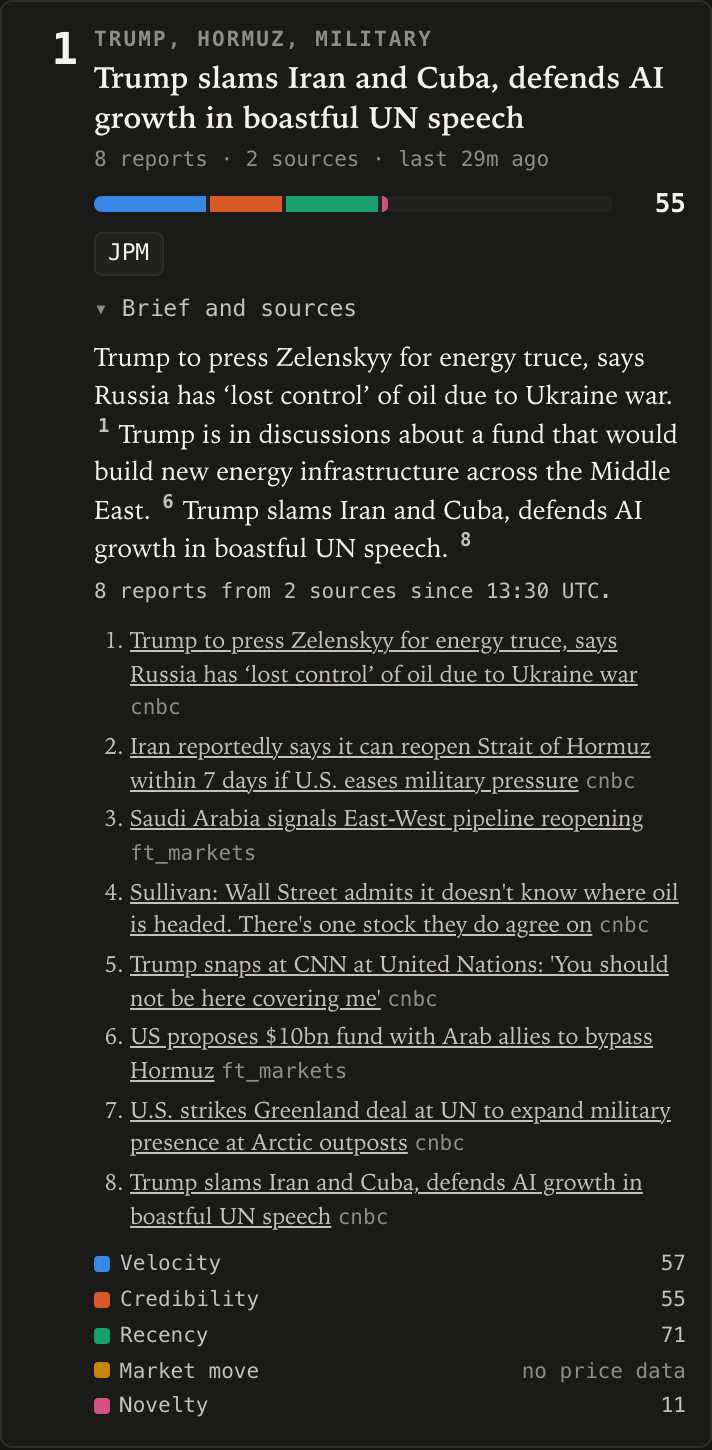
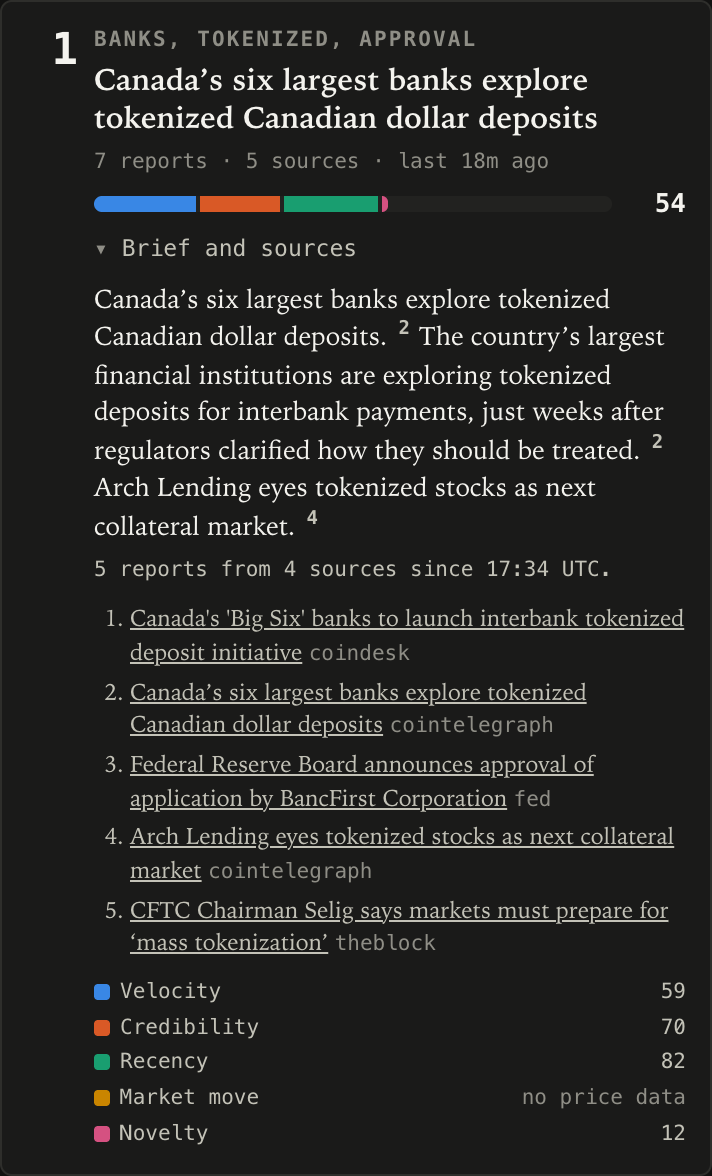
readme, verification and offline-run script updates

diff --git a/README.md b/README.md
@@ -1,35 +1,65 @@
 # Summerand
 
-Market news clustering, impact ranking and briefs, streamed to a Chrome side panel.
+Summerand groups market news, ranks clusters with an impact heuristic, and sends cited briefs to a Chrome side panel.
 
-Summerand polls financial and crypto news feeds and live market data, groups related articles
-with embeddings and K-Means, scores each group for likely market impact, and writes short cited
-briefs. A FastAPI server pushes the ranking over a WebSocket to a Chrome side panel, which also
-highlights tickers on the page you're reading.
+It groups financial and crypto news, scores each group using hand-set weights, and writes short
+briefs with citations. FastAPI sends rankings over a WebSocket to the panel, which also marks
+tickers on the page you're reading. The demo replays recorded stories and prices. The panel can
+show a connected server while the market data is historical. In live mode, Summerand polls news
+feeds and market data, with the limits described below.
 
 <img src="docs/sidepanel.png" width="380" alt="Side panel showing the market brief and ranked story cards with score bars">
 
+_Selected fixture moment (2026-08-28 22:00 UTC) in the Chrome side panel. The market brief
+extracts sentences from several unrelated top stories. Clusters are illustrative; some sources
+still cross topics within a cluster._
+
 ## Run the recorded demo
 
-`make setup` installs the locked Python dependencies and pinned local embedding model; it needs network access. After setup, replay the included 24-hour fixture without API keys:
+From a clean clone, install [uv](https://docs.astral.sh/uv/getting-started/installation/)
+and Python 3.11 or newer. These commands download the locked core Python dependencies. You do
+not need an account, API key, model download, Docker, or Node:
+
+```sh
+make setup-demo
+make demo-hashing
+```
+
+The API serves at `http://127.0.0.1:8000`. When the terminal says `replay done`, open
+`/api/stories` at that address to see the ranked fixture stories. Each run replaces the
+disposable `var/demo-hashing.sqlite` file and its SQLite sidecars, then serves the final state
+until you press Ctrl-C. The 24-hour fixture uses hashing vectors on this path, so its clusters
+may differ from a MiniLM run.
+
+To view the side panel, use Chrome 116 or newer: open `chrome://extensions`, enable Developer
+mode, choose **Load unpacked**, and select this repository's `extension` directory. Click the
+Summerand toolbar icon to open the panel; its **Connected** indicator means the local server is
+reachable, not that market data is live. The panel defaults to `127.0.0.1:8000`; change it on
+the extension options page if you chose another port. Node is needed only for the extension
+unit tests (`make ext-test`).
+
+For the recorded MiniLM setup used by the checked-in ranking evaluation, run `make setup`.
+This downloads the pinned model and Playwright Chromium, then installs the locked Python
+dependencies. After that, replay with:
 
 ```sh
 SUMMERAND_EMBEDDER=local SUMMERAND_LLM=off make demo-fast
 ```
 
-The API serves at `http://127.0.0.1:8000`. To view the side panel, open `chrome://extensions`, enable Developer mode, choose **Load unpacked**, and select this repository's `extension` directory. The demo command replays into a local SQLite database and serves the final state until stopped. `make ext-test` runs the extension's Node tests; `make test-fast` runs the Python tests.
+`make test-fast` runs the Python tests. `make ext-test` runs the extension's Node tests.
 
 `make demo` replays at 300x instead (24 hours of news in about five minutes), so you can watch
 clusters form and rankings change in the panel. Speed only changes how long the replay sleeps
-between events; the pipeline's results are the same at any speed. `--until 2026-08-28T19:30:00Z`
-stops the replay at a chosen moment (the screenshot above is from then). Without `make setup`'s model
-download the demo falls back to hashed bag-of-words vectors, which cluster less well but need
-nothing.
+between events; the pipeline's results are the same at any speed. `--until 2026-08-28T22:00:00Z`
+stops the replay at a chosen moment (used for the screenshot above). The default embedder
+can fall back to hashing if no local model is available; `demo-hashing` selects hashing explicitly.
 
-Nothing in the demo needs the network after setup. `make e2e-offline`, run under a wrapper that
-blocks outbound connections, runs the demo, the tests and the extension smoke test with every
-process checking at startup that it cannot reach the internet (see
-[docs/verification.md](docs/verification.md)).
+Nothing in the replay needs the network after setup. On macOS, run
+`scripts/offline-run make e2e-offline` after `make setup` and with Node installed. The included
+wrapper denies outbound connections except localhost, unsets provider keys used by Summerand,
+and makes the demo, tests and Chromium extension smoke check verify that egress is blocked at
+startup. The wrapper uses macOS `sandbox-exec`; see [docs/verification.md](docs/verification.md)
+for the historical run and the distinction between replay and live-feed validation.
 
 ## How it works
 
@@ -131,12 +161,12 @@ make compose-offline       # the same replay on an internal-only network, checke
 ```
 
 The API binds to 127.0.0.1 unless given `--host` (compose passes 0.0.0.0 inside the network).
-Set `SUMMERAND_EXTENSION_IDS` to pin which extension ids may connect; by default any unpacked
-extension id and localhost pages are allowed. Redpanda listens on `redpanda:9092` for containers and `localhost:19092` for the host. Postgres
-is published on `127.0.0.1:5433` (`SUMMERAND_PG_PORT`), and the API on `SUMMERAND_API_PORT`
-(default 8000). Keys go in `.env` (see `.env.example`); all of them are optional. To use MiniLM
-inside the containers, build with `SUMMERAND_EXTRAS="--extra pg --extra local"` (this adds
-torch) after `make models`.
+Set `SUMMERAND_EXTENSION_IDS` to restrict which extension ids may connect; by default, any
+unpacked extension id and localhost pages are allowed. Redpanda listens on `redpanda:9092` for
+containers and `localhost:19092` for the host. Postgres is published on `127.0.0.1:5433`
+(`SUMMERAND_PG_PORT`), and the API on `SUMMERAND_API_PORT` (default 8000). Keys go in `.env`
+(see `.env.example`); all of them are optional. To use MiniLM inside the containers, run
+`make models`, then build with `SUMMERAND_EXTRAS="--extra pg --extra local"` (which adds torch).
 
 The pipeline doesn't commit offsets. On restart it rebuilds its window from the retained topics
 (news kept 26h, ticks 7h). While it is catching up it doesn't call the LLM or push to clients.
@@ -181,9 +211,22 @@ by the tests.
 
 ## Ranking evaluation
 
-`make eval` replays the same fixture and compares the pipeline's impact order with recency, cluster size, and 200 seeded random shuffles. A story is labeled positive when a ticker's absolute 60-minute log return exceeds twice its trailing 120-minute realized one-minute volatility scaled by `sqrt(60)`. Only stories with sufficient price history and a future price enter the evaluation. The result is in [`results/ranking_eval.json`](results/ranking_eval.json); the script and fixture hashes in that file identify the evaluated inputs.
+`make eval` replays the fixture with the local MiniLM model and compares the impact order with
+recency, cluster size, and 200 seeded random shuffles. A story is positive when a ticker's
+absolute 60-minute log return exceeds twice its trailing 120-minute realized one-minute
+volatility scaled by `sqrt(60)`. A story needs enough price history and a future price to enter
+the evaluation. The current local recompute is in
+[`results/ranking_eval.json`](results/ranking_eval.json). Its fixture and evaluation-script
+SHA-256 values match this tree. Reproducing its numbers requires `make setup` and the same local
+model; the hashing quickstart uses a different embedding configuration.
 
-This fixture **does not establish a ranking improvement**. Only 7 of 133 snapshots with priced candidates have a positive story, and those 7 contain 1, 1, 1, 1, 5, 3, and 1 candidates. Precision at five therefore cannot vary with order in any evaluated snapshot. NDCG at ten can vary in only two. The positive snapshots are also drawn from one replay and are not independent market events. The scores are descriptive diagnostics, not evidence that impact ranking predicts price moves or beats the baselines. A useful next evaluation needs more independent positive events and multiple candidates per snapshot, with the labeling rule and comparison fixed before inspecting results.
+This fixture **does not establish a ranking improvement**. Only 7 of 133 snapshots with priced
+candidates have a positive story. Those 7 have 1, 1, 1, 1, 5, 3, and 1 candidates. Precision at
+five cannot vary with order in any evaluated snapshot, and NDCG at ten can vary in only two.
+These positive snapshots come from one replay, so they are not independent market events. The
+scores describe this run; they do not show that impact ranking predicts price moves or beats the
+baselines. A useful next evaluation needs more independent positive events and multiple
+candidates per snapshot, with the labeling rule and comparison fixed before seeing results.
 
 ## Limitations
 

diff --git a/docs/verification.md b/docs/verification.md
@@ -1,9 +1,10 @@
 # Verification log
 
-What was run on the development machine (Apple M1 Pro, macOS, Docker Desktop), and what happened.
-"Offline wrapper" means a sandbox-exec profile that denies all outbound network except localhost
-and unsets every provider key; the egress canary (`summerand egress-check`, and the startup check
-enabled by `SUMMERAND_EGRESS_CHECK=require-blocked`) confirmed it in each process.
+This log records checks run on the development machine (Apple M1 Pro, macOS, Docker Desktop).
+The "offline wrapper" is a sandbox-exec profile that blocks outbound network access except to
+localhost and unsets the provider keys used by Summerand. Each process confirmed the block with
+the egress canary (`summerand egress-check`) and the startup check enabled by
+`SUMMERAND_EGRESS_CHECK=require-blocked`.
 
 ## Offline runs (no keys, no network)
 
@@ -16,12 +17,12 @@ enabled by `SUMMERAND_EGRESS_CHECK=require-blocked`) confirmed it in each proces
 | 2026-08-29 | `demo --speed 300 --smoke` under the wrapper | 24h fixture replayed in 288s wall time, 0 late events, smoke passed |
 | 2026-08-29 | `make compose-offline`: Redpanda, Postgres, replay, ETL, pipeline, API on an `internal: true` network | canary blocked in replay, etl, pipeline, api and smoke; 10,562 records through Redpanda; pipeline finished with 0 late events; smoke from inside the network passed REST + WS |
 | 2026-08-30 | `docker run --network none` with the image: canary, then `demo --smoke` on the tiny fixture (the CI offline job) | canary blocked; smoke passed |
+| 2026-08-31 | `scripts/smoke_extension.py --until 2026-08-28T19:30:00Z` under the wrapper, after the title-noise filter | 170 articles after dropping templated posts; panel connected, brief expands, highlighting as before |
+| 2026-08-31 | `scripts/smoke_extension.py --embedder local --until 2026-08-28T22:00:00Z --shots <dir>` with provider keys unset | 113 ingested articles, 9 panel cards, connected state, cited brief and ticker highlighting verified; captured screenshots copied to `docs/` |
 
-| 2026-08-31 | `scripts/smoke_extension.py --until 2026-08-28T19:30:00Z` under the wrapper, after the title-noise filter | 170 articles after dropping templated posts; panel live, brief expands, highlighting as before; screenshots in `docs/` |
-
-The unpaced and 300x replays of the tiny fixture producing identical cluster membership, ranking
-snapshots (including every score component) and brief hashes is a test
-(`tests/test_replay_e2e.py`).
+The test `tests/test_replay_e2e.py` checks that unpaced and 300x replays of the tiny fixture
+produce identical cluster membership, ranking snapshots (including every score component), and
+brief hashes.
 
 ## Live runs (network, real keys)
 
